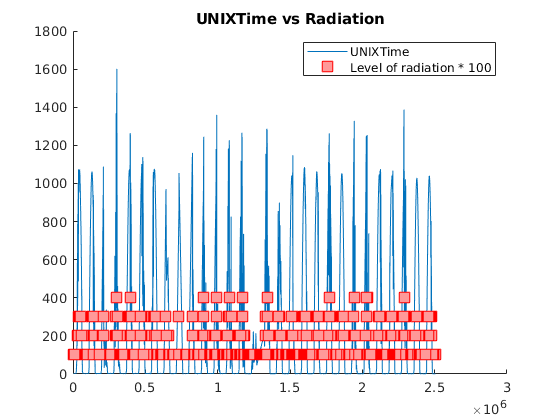
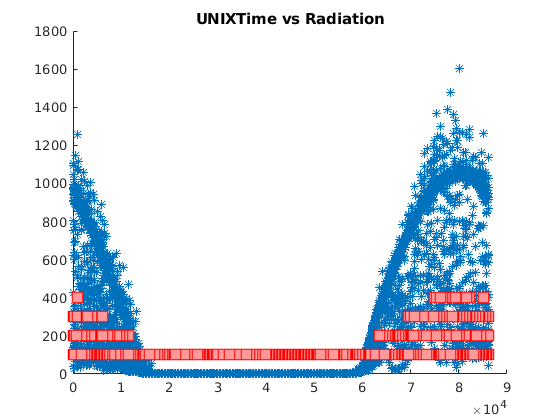
Novità in altri_grafici e grafici_pca_dataset_completo

diff --git a/month_dataset_script.m b/month_dataset_script.m
@@ -2,6 +2,8 @@ clear all
 close all
 clc
 
+grafici = 0;
+
 data = readtable('SolarPrediction.csv');
 
 %conversione fahrenheit in celsius
@@ -12,6 +14,9 @@ data{:,6} = data{:,6} / 29.921;
 
 %conversione miglia in km
 data{:,9} = data{:,9} * 1.60934;
+
+%ri-mappatura orario
+data{:,1} = mod(data{:,1}, 60 * 60 * 24);
 
 september_data = data(1:7417,:);
 october_data = data(7418:16238,:);
@@ -30,33 +35,12 @@ max_radiation_value = floor(max(y_september_data)) + 1;
 sampled_y_september_data = ...
     ceil(y_september_data / (max_radiation_value / n_levels));
 
-x_october_data = october_data{:,cols};
-y_october_data = october_data{:,4};
-%discretizzazione della colonna Y in 4 valori
-max_radiation_value = floor(max(y_october_data)) + 1;
-sampled_y_october_data = ...
-    ceil(y_october_data / (max_radiation_value / n_levels));
-
-x_november_data = november_data{:,cols};
-y_november_data = november_data{:,4};
-%discretizzazione della colonna Y in 4 valori
-max_radiation_value = floor(max(y_november_data)) + 1;
-sampled_y_november_data = ...
-    ceil(y_november_data / (max_radiation_value / n_levels));
-
-x_december_data = december_data{:,cols};
-y_december_data = december_data{:,4};
-%discretizzazione della colonna Y in 4 valori
-max_radiation_value = floor(max(y_december_data)) + 1;
-sampled_y_december_data = ...
-    ceil(y_december_data / (max_radiation_value / n_levels));
-
+%%%----------------------GRAFICI DI SETTEMBRE-------------------------------
+if grafici == 1
 figure(1); hold on;
 title('UNIXTime vs Radiation');
-plot(x_september_data(:,1) - x_september_data(length(x_september_data)), ...
-    y_september_data);
-plot(x_september_data(:,1) - x_september_data(length(x_september_data)), ...
-    sampled_y_september_data * 100, ...
+plot(x_september_data(:,1), y_september_data, '*');
+plot(x_september_data(:,1), sampled_y_september_data * 100, ...
 's', 'MarkerSize', 10, 'MarkerEdgeColor', 'red', 'MarkerFaceColor', [1 .6 .6]);
 hold off;
 
@@ -94,3 +78,26 @@ plot(x_september_data(:,6), y_september_data, '*');
 plot(x_september_data(:,6), sampled_y_september_data * 100, ...
 's', 'MarkerSize', 10, 'MarkerEdgeColor', 'red', 'MarkerFaceColor', [1 .6 .6]);
 hold off;
+end
+%%%-------------------------------------------------------------------------
+
+x_october_data = october_data{:,cols};
+y_october_data = october_data{:,4};
+%discretizzazione della colonna Y in 4 valori
+max_radiation_value = floor(max(y_october_data)) + 1;
+sampled_y_october_data = ...
+    ceil(y_october_data / (max_radiation_value / n_levels));
+
+x_november_data = november_data{:,cols};
+y_november_data = november_data{:,4};
+%discretizzazione della colonna Y in 4 valori
+max_radiation_value = floor(max(y_november_data)) + 1;
+sampled_y_november_data = ...
+    ceil(y_november_data / (max_radiation_value / n_levels));
+
+x_december_data = december_data{:,cols};
+y_december_data = december_data{:,4};
+%discretizzazione della colonna Y in 4 valori
+max_radiation_value = floor(max(y_december_data)) + 1;
+sampled_y_december_data = ...
+    ceil(y_december_data / (max_radiation_value / n_levels));

diff --git a/full_dataset_script.m b/full_dataset_script.m
@@ -13,6 +13,9 @@ data{:,6} = data{:,6} / 29.921;
 %conversione miglia in km
 data{:,9} = data{:,9} * 1.60934;
 
+%ri-mappatura orario
+data{:,1} = mod(data{:,1}, 60 * 60 * 24);
+
 %togliamo Date, Time, Radiation, TimeSunRise e TimeSunSet per la matrice X
 cols = [1, 5, 6, 7, 8, 9];
 xdata = data{:,cols};
